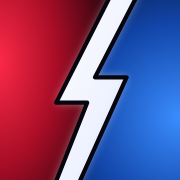
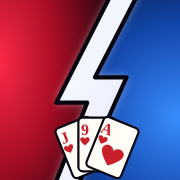
Icône : triplette J-9-A à cœur sur l'éclair ; affiche en J/K comme le jeu
Claude-Session: https://claude.ai/code/session_01HaK1aqZe8j4xzBJQ9dQSjK

Changed region(s): [[0.2778, 0.6389, 0.7778, 1.0]]

diff --git a/poster.js b/poster.js
@@ -127,7 +127,7 @@ window.SC_POSTER = `<svg xmlns="http://www.w3.org/2000/svg" viewBox="0 0 640 420
   <g stroke="#07060f" stroke-width="3" stroke-linejoin="round" stroke-linecap="round">
     <g transform="translate(296 262) rotate(14)">
       <rect x="-19" y="-58" width="38" height="54" rx="4" fill="#fffdf6"/>
-      <text x="-14" y="-38" font-family="Bungee, 'DejaVu Sans', 'Arial Black', sans-serif" font-size="15" fill="#c8202b" stroke="none">V♥</text>
+      <text x="-14" y="-38" font-family="Bungee, 'DejaVu Sans', 'Arial Black', sans-serif" font-size="15" fill="#c8202b" stroke="none">J♥</text>
       <text x="0" y="-14" text-anchor="middle" font-family="'Atkinson Hyperlegible', 'DejaVu Sans', Arial, sans-serif" font-size="20" fill="#c8202b" stroke="none">♥</text>
     </g>
     <path d="M280 268 L 300 252 C 306 248, 312 252, 308 258 L 300 268 C 312 266, 318 274, 310 282 L 292 298 C 280 306, 266 300, 266 288 Z" fill="#e6b597"/>
@@ -168,7 +168,7 @@ window.SC_POSTER = `<svg xmlns="http://www.w3.org/2000/svg" viewBox="0 0 640 420
     <g transform="translate(352 300)">
       <g transform="rotate(-28)"><rect x="-17" y="-62" width="34" height="48" rx="4" fill="#fffdf6"/><text x="-13" y="-46" fill="#17171c" stroke="none">A♠</text></g>
       <g transform="rotate(-9)"><rect x="-17" y="-64" width="34" height="48" rx="4" fill="#fffdf6"/><text x="-13" y="-48" fill="#c8202b" stroke="none">10♦</text></g>
-      <g transform="rotate(10)"><rect x="-17" y="-64" width="34" height="48" rx="4" fill="#fffdf6"/><text x="-13" y="-48" fill="#17171c" stroke="none">R♣</text></g>
+      <g transform="rotate(10)"><rect x="-17" y="-64" width="34" height="48" rx="4" fill="#fffdf6"/><text x="-13" y="-48" fill="#17171c" stroke="none">K♣</text></g>
     </g>
     <path d="M378 330 C 378 304, 366 292, 350 292 C 332 292, 326 308, 332 320 C 338 334, 364 342, 378 330 Z" fill="#d39a6c"/>
     <path d="M362 300 L 362 314 M 350 298 L 350 314 M 340 300 L 340 314" stroke-width="2" fill="none"/>

diff --git a/index.html b/index.html
@@ -17,21 +17,21 @@
 <meta name="apple-mobile-web-app-capable" content="yes">
 <meta name="apple-mobile-web-app-title" content="Coincheur">
 <link rel="manifest" href="manifest.webmanifest">
-<link rel="icon" href="icon.svg?v=1793032209" type="image/svg+xml">
-<link rel="apple-touch-icon" href="icon-180.png?v=1793032209">
+<link rel="icon" href="icon.svg?v=1793032433" type="image/svg+xml">
+<link rel="apple-touch-icon" href="icon-180.png?v=1793032433">
 <link rel="preconnect" href="https://fonts.googleapis.com">
 <link rel="preconnect" href="https://fonts.gstatic.com" crossorigin>
 <link rel="stylesheet" href="https://fonts.googleapis.com/css2?family=Atkinson+Hyperlegible:wght@400;700&family=Barlow+Semi+Condensed:wght@500;600;700&family=Bungee&family=Fraunces:opsz,wght@9..144,600..800&family=Press+Start+2P&display=swap">
-<link rel="stylesheet" href="style.css?v=1793032209">
+<link rel="stylesheet" href="style.css?v=1793032433">
 </head>
 <body>
 <div id="app"></div>
 <div id="fx" aria-live="polite"></div>
-<script src="poster.js?v=1793032209"></script>
-<script src="config.js?v=1793032209"></script>
-<script src="engine.js?v=1793032209"></script>
-<script src="profile.js?v=1793032209"></script>
-<script src="table.js?v=1793032209"></script>
-<script src="app.js?v=1793032209"></script>
+<script src="poster.js?v=1793032433"></script>
+<script src="config.js?v=1793032433"></script>
+<script src="engine.js?v=1793032433"></script>
+<script src="profile.js?v=1793032433"></script>
+<script src="table.js?v=1793032433"></script>
+<script src="app.js?v=1793032433"></script>
 </body>
 </html>
